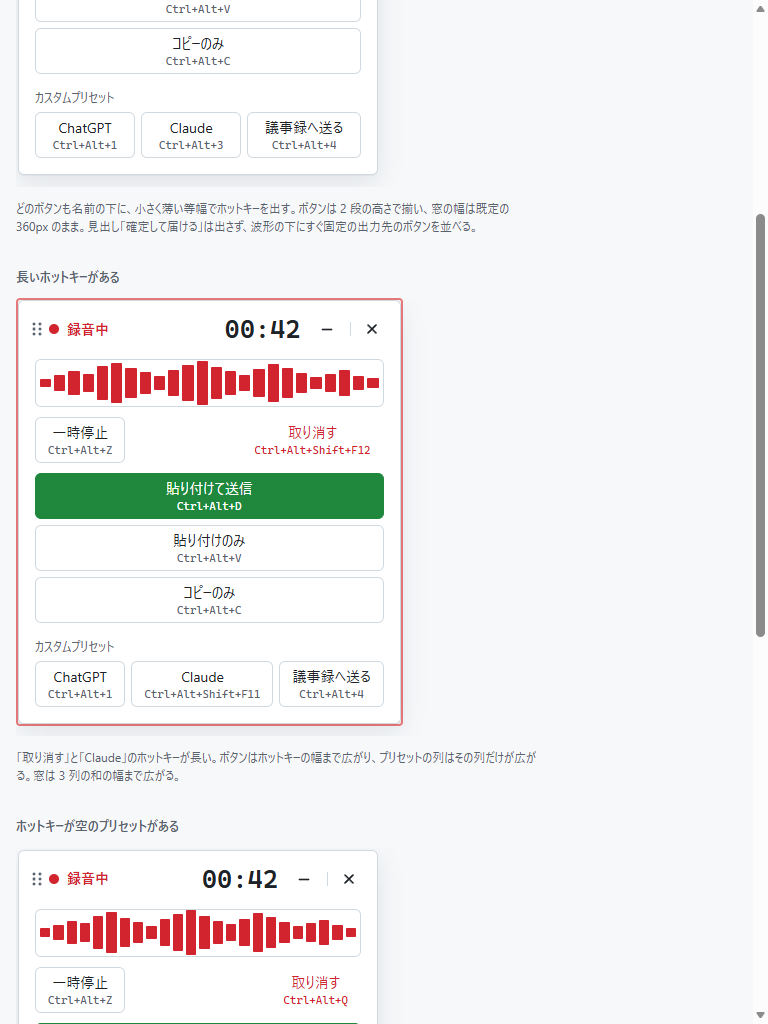
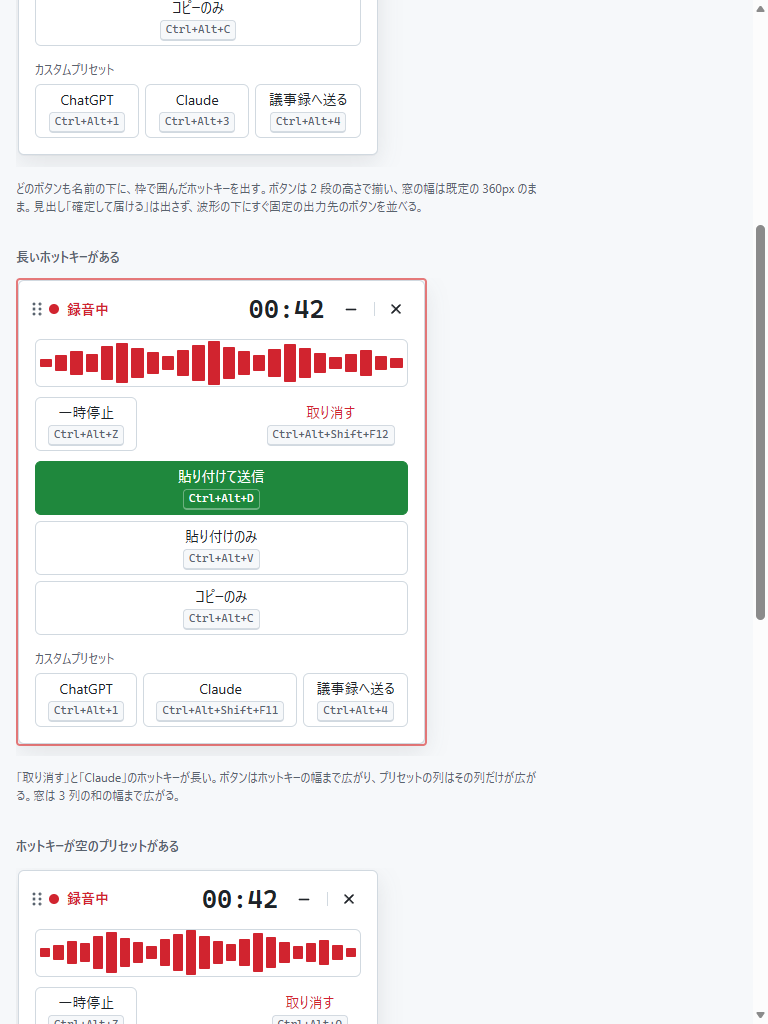
録音の画面の案 A のホットキーを枠で囲んだキーキャップ風にする

diff --git a/dev/mock/pages/recording-window/82/a-key-below/index.html b/dev/mock/pages/recording-window/82/a-key-below/index.html
@@ -25,7 +25,7 @@
     <!-- 画面の説明 -->
     <header class="intro">
       <h1>録音の画面</h1>
-      <p>ボタンの名前の下に、小さく薄い等幅の文字でホットキーを出したもの（案 A）。ボタンの幅は名前とホットキーの長い方で決まる。見出し「確定して届ける」を消した。ほかは #48 のまま。</p>
+      <p>ボタンの名前の下に、枠で囲んだホットキーを出したもの（案 A）。ボタンの幅は名前とホットキーの長い方で決まる。見出し「確定して届ける」を消した。ほかは #48 のまま。</p>
     </header>
 
     <div class="desk desk--wide">
@@ -63,7 +63,7 @@
           </div>
         </div>
         </div>
-        <p class="scene-note">どのボタンも名前の下に、小さく薄い等幅でホットキーを出す。ボタンは 2 段の高さで揃い、窓の幅は既定の 360px のまま。見出し「確定して届ける」は出さず、波形の下にすぐ固定の出力先のボタンを並べる。</p>
+        <p class="scene-note">どのボタンも名前の下に、枠で囲んだホットキーを出す。ボタンは 2 段の高さで揃い、窓の幅は既定の 360px のまま。見出し「確定して届ける」は出さず、波形の下にすぐ固定の出力先のボタンを並べる。</p>
       </section>
 
       <!-- 場面: 長いホットキーがある -->

diff --git a/dev/mock/refs/82/assets/style.css b/dev/mock/refs/82/assets/style.css
@@ -31,34 +31,18 @@
 
 /* ===== 案 A: 名前の下にホットキー ===== */
 
-/* ボタン: 名前とホットキーを縦に 2 段で積む */
+/* ボタン: 名前と、枠で囲んだホットキーを縦に 2 段で積む */
 .keys-below .btn--hk {
   flex-direction: column;
   justify-content: center;
-  gap: 1px;
-  min-height: 44px;
+  gap: 2px;
+  min-height: 52px;
   padding: 4px 12px;
 }
 
 /* 固定の出力先のボタンも 2 段で中央に揃える */
 .keys-below .outs .btn--hk {
   justify-content: center;
-}
-
-/* ホットキー: 枠を持たず、小さく薄い等幅の文字にする */
-.keys-below .btn--hk kbd {
-  padding: 0;
-  border: 0;
-  background: transparent;
-  font-size: 11px;
-  line-height: 14px;
-  color: var(--text-2);
-}
-
-/* 主の操作・取り消すのボタンの中のホットキー: 名前と同じ色にし、地の上で読めるようにする */
-.keys-below .btn--primary.btn--hk kbd,
-.keys-below .btn--danger.btn--hk kbd {
-  color: inherit;
 }
 
 /* ===== 案 B: 名前の右にホットキー ===== */

diff --git a/dev/mock/components/hotkey-button/index.html b/dev/mock/components/hotkey-button/index.html
@@ -16,7 +16,7 @@
     <!-- 部品の説明 -->
     <header class="intro">
       <h1>ホットキーを持つボタン</h1>
-      <p>録音の画面の一時停止・再開・取り消す・固定の出力先・カスタムプリセットのボタン。名前と、同じ操作のホットキーを切らずに出す。案 A は名前の下に小さく薄い等幅で、案 B は名前の右に枠で囲んだキーで出す。どちらもボタンの幅は中身から決める。</p>
+      <p>録音の画面の一時停止・再開・取り消す・固定の出力先・カスタムプリセットのボタン。名前と、同じ操作のホットキーを切らずに出す。案 A は名前の下に、案 B は名前の右に、どちらも枠で囲んだキーで出す。どちらもボタンの幅は中身から決める。</p>
     </header>
 
     <div class="desk">

diff --git a/dev/mock/pages/recording-window/82/index.md b/dev/mock/pages/recording-window/82/index.md
@@ -2,5 +2,5 @@
 
 | 案 | 説明 |
 | --- | --- |
-| [a-key-below](./a-key-below/index.html) | ボタンの名前の下に、小さく薄い等幅でホットキーを出す。見出し「確定して届ける」を消す |
+| [a-key-below](./a-key-below/index.html) | ボタンの名前の下に、枠で囲んだホットキーを出す。見出し「確定して届ける」を消す |
 | [b-key-right](./b-key-right/index.html) | 名前の右にホットキーを出したまま、ボタンを収まる幅まで広げる。見出し「確定して届ける」を消す |
